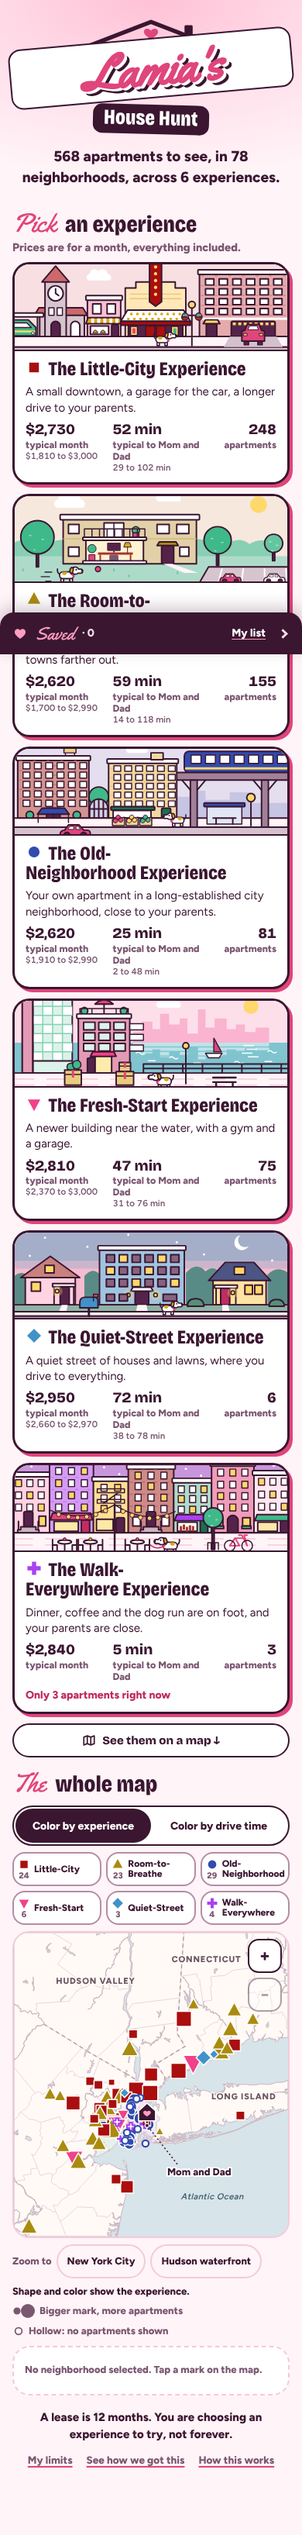
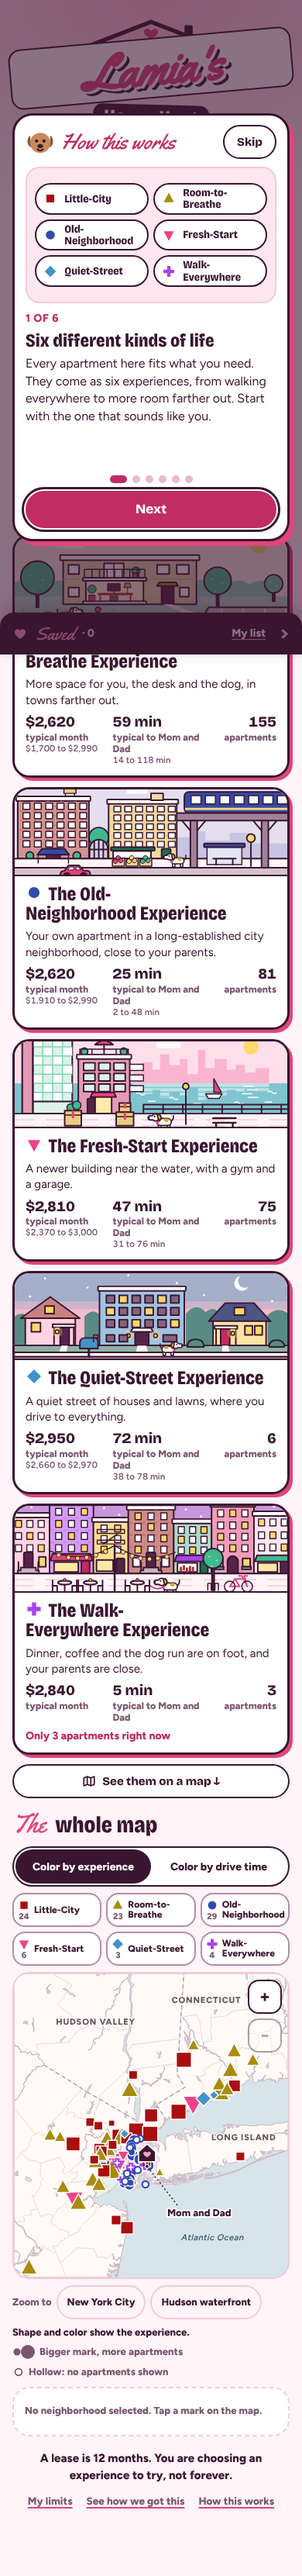
Tutorial restored at the front of the page; republished; all 20 publishable checks pass
Claude-Session: https://claude.ai/code/session_01QmsfsQ2hk5v2h8XwNhCh1P

diff --git a/house-hunt/docs/harvest_notes/evidence_batch_20.md b/house-hunt/docs/harvest_notes/evidence_batch_20.md
@@ -1,0 +1,98 @@
+# Evidence batch 20: re-read of shown apartments never re-read since collection (2026-11-16)
+
+Source list: `data/reference/evidence_batches/batch_20.csv`, read once from `data/ranked_units.csv` at the start
+(`shown == True`, `live_status` not live/changed, source not Trulia): **190 apartments in 54 buildings**: 170 on Apartment List
+(48 building pages), 20 on buildings' own pages (Scribe 6, The Asher 4, The Leaf 4, Motif 3, Continuum 2, Harbor Landing on Greystar 1).
+Outputs: `data/evidence/live_check_batch_20.csv` (190 rows), `facts_batch_20.csv` (18 rows), and header-only
+`confirm_batch_20.csv`, `items_batch_20.csv`, `ratings_batch_20.csv`. Each was written to a temp name and renamed.
+Raw pages as read tonight: `raw/evidence_b20/` (a new folder, so nothing came from yesterday's cache and the harvest cache was not
+overwritten); the one repeat read is in `raw/evidence_b20_retry/`. Nothing else was edited; the pipeline was not run; nothing was committed.
+
+## Counts
+
+- **173 live, 8 changed, 9 gone, 0 blocked.** No host refused.
+- Apartment List: 153 live, 8 changed, 9 gone. Own pages: 20 live.
+- Price changes: 8, all down, all small. Studios: 3 down ($5 each). One-bedrooms: 5 down ($5 to $10). None up. Largest: $10
+  (Avalon Maplewood 002-347 $2,560 to $2,550; 001-337 $2,580 to $2,570). The others: Avalon Maplewood 002-215 $2,240 to $2,235,
+  001-243 $2,450 to $2,445; The Walcott Hackensack 353 $2,244 to $2,239, 417 and 333 $2,301 to $2,296, 631A $2,522 to $2,517.
+- No availability date moved in a way that matters. On vacant units the site's `available_on` field moves by a day (10 units: 100 avalon gates|06611, 150 southfield ave|06902, 200 boyden ave|07040); those are `live` with the movement said in the note. No unit is now later than 2026-12-15.
+
+## Gone (9)
+
+| Building | Unit | Stored price | What the page shows tonight |
+|---|---|---|---|
+| The Mercer, 10 Commerce Ct, Newark | 8H, 9E, 10E, 11E, 12F, 12E | $2,185 to $2,528 | Apartment List answers "This page could not be found" for the building's page (read twice; a normal answer, not a refusal). The listing has been taken down. Not searched for under another page address. |
+| LIA by Vermella, 51 Lincoln Ave, Orange | 307 | $2,560 | Not in the unit list; plan A1 now lists no individual units. |
+| Kensington Place, 527 Old Bridge Tpke | 1315 | $2,575 | Not in the unit list; plan 1E still lists 1331, 2315, 1108. |
+| Harbor Pointe, 302 Constitution Ave, Bayonne | B9-457 | $2,650 | Not in the unit list; plan Compass 2 now lists no individual units. |
+
+## The important finding: 12-month prices on the buildings' own maps
+
+The listed price on four own-site buildings belongs to a long lease. The availability map's own price calculator (the JSON the map
+loads when a unit is opened; `sightmap.com/app/api/v1/leasing/...`, allowed by robots) gives the price for every term, move-in 2026-11-16.
+The data had no 12-month price for any of these. Recorded in each unit's live-check note ("Price is for a N-month lease; 12-month price $X")
+and as one `lease_term_of_listed_price` fact per unit.
+
+| Building | Unit | Listed (term) | 12-month price | 13-month | All-in today | All-in at the 12-month price |
+|---|---|---|---|---|---|---|
+| The Leaf, New Rochelle | 2318 | $2,563 (24; same for 14 to 24) | $3,973 | $2,694 | $2,926 | about $4,336 |
+| The Leaf | 2418 | $2,573 | $3,988 | $2,705 | $2,936 | about $4,351 |
+| The Leaf | 2505 | $2,583 | $4,004 | $2,715 | $2,946 | about $4,367 |
+| The Leaf | 2518 | $2,583 | $4,004 | $2,715 | $2,946 | about $4,367 |
+| The Asher, Stamford | 308 | $2,342 (21; same for 17 to 21) | $3,145 | $3,087 | $2,658 | about $3,461 |
+| The Asher | 610 | $2,402 | $3,225 | $3,166 | $2,718 | about $3,541 |
+| The Asher | 730 | $2,385 | $3,203 | $3,143 | $2,714 | about $3,532 |
+| The Asher | 830 | $2,415 | $3,243 | $3,183 | $2,744 | about $3,572 |
+| Scribe, Norwalk | 425 | $2,606 (24; same for 17 to 24) | $3,210 | $2,621 | $2,935 | about $3,539 |
+| Scribe | 502, 507, 542, 544, 546 | $2,379 (24; same for 17 to 22 and 24) | $2,395 | $2,391 | $2,695 | about $2,711 (stays under) |
+| Motif, New Rochelle | 523 | $2,375 (16) | $2,819 | not offered | $2,934 | about $3,378 |
+| Harbor Landing, Stamford (Greystar) | 452 | $2,487 (13) | $3,040 | (listed) | $2,901 | about $3,454 |
+
+"All-in at the 12-month price" is my arithmetic (stored all-in minus listed rent plus the 12-month price), not a pipeline figure.
+Under the rule "listed price for a lease longer than 13 months and the page gives the 12-month price: cost and cap use the 12-month
+price", ten apartments would pass $3,000: The Leaf 4, The Asher 4, Scribe 425, Motif 523. Harbor Landing 452 is on a 13-month price, so
+the rule does not switch it, but its 12-month price ($3,040) is itself above the cap. The Leaf's price at 14 months equals the listed price.
+Motif 205 and 632 (available Dec 6 and Dec 8, 16-month price): the calculator returns no terms before the unit is vacant; no 12-month price read.
+Continuum S1016 and S1617: 12-month prices, unchanged, one flat price.
+Apartment List gives one lease length per unit and no 12-month price; where the unit's price is for 13 to 20 months the note says so.
+
+## Tags used
+
+- **STALE PAGE 2026-07-30**: Grandville Towers 9C (19 Morford Pl, Red Bank), $2,690, still listed. Every unit row on that page was
+  last updated 2026-07-30 with `available_on` 2026-07-29, and the page gives no availability-check date; only the building-level record
+  has a newer timestamp. The same is true of units 5F and 7C, which batch 15 graded `live` with this said in plain words but without the tag.
+  The coordinator should treat the three alike.
+- NO UNITS AVAILABLE, DIFFERENT BUILDING, WAITLIST: none found. Every page's name, street address and ZIP matched the stored building;
+  the five own sites still carry the same SightMap embed as when collected, and the map's asset name matches.
+
+## Gate facts and cost lines
+
+- Compared with yesterday's cached copy of each Apartment List page: pet policy, parking, fee texts, lease-terms text, offers and the
+  elevator tag are identical on all 47 pages that still exist. Nothing new to confirm, so `confirm_batch_20.csv` is header-only.
+- **No gate fact tonight contradicts the data.** Two notes, neither a contradiction: Apartment List's amenity list has no "Elevator" tag
+  for Liberty Bay Club (190 W 54th St, Bayonne) or West Side Square (1075 West Side Ave, Jersey City); the data's elevator for those
+  comes from other sources (confirmed / inferred). Piper and Halstead Norwalk carry `dogs_allowed = conflicting` in the data; tonight's
+  Apartment List pet card still says dogs are allowed on both.
+- Offers on the own sites tonight (facts `special_offer`): The Asher now says "New Residents Can Enjoy 1-Month free! *For a limited time on
+  select units and lease terms" (the $500 look-and-lease saving in the stored text is gone); Scribe says "New residents can receive up to
+  2 months free!". Neither says which units or terms, nor whether the map's prices already include it.
+- Floors on the own maps (Scribe, Asher, Leaf, Motif, Continuum, Harbor Landing 452 = Floor 4) equal the stored floors.
+
+## Matching
+
+Apartment List: by the site's own unit id inside the listing id (`unit_rental_id`); Grandville Towers 9C has no such id and was matched by
+the site's numeric unit id plus the exact label. SightMap: exact unit number within the same map. Greystar: the site's unit id. No floor
+plan was matched to an apartment; where the plan remains and the unit does not, the status is `gone`.
+
+## Hosts and requests
+
+87 requests in all, one at a time, 3.5 s apart per host: apartmentlist.com 48 building pages + 1 repeat + robots; sightmap.com 5 maps +
+19 unit price-calculator reads + robots; greystar.com 1 page + robots; the five own sites 1 page + robots each. robots.txt was re-read
+for every host tonight and allows these paths. **No 403, 429, CAPTCHA or wall; `raw/_host_kill_shared.json` was not changed.**
+Trulia was not requested. The maps' "apply" links lead to securecafe (off limits) and were not followed.
+
+## Limits
+
+- The 12-month figures are the calculator's prices for a move-in on 2026-11-16; they are revenue-managed and can move daily.
+- The Mercer may be listed elsewhere; only its Apartment List page was read.
+- Own-site pages were read for the embed and the offer banner; their text has no pet weight limit or elevator sentence beyond what the data holds.
